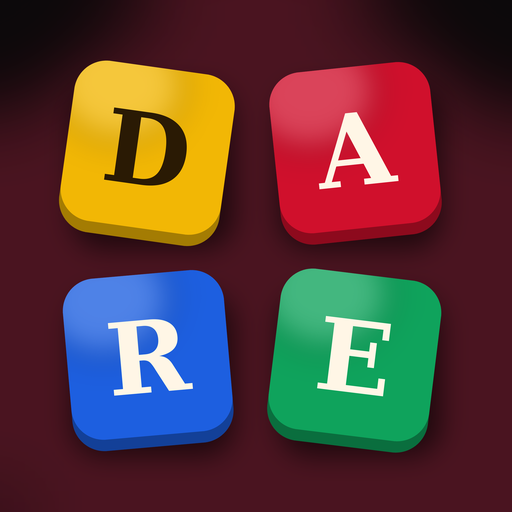
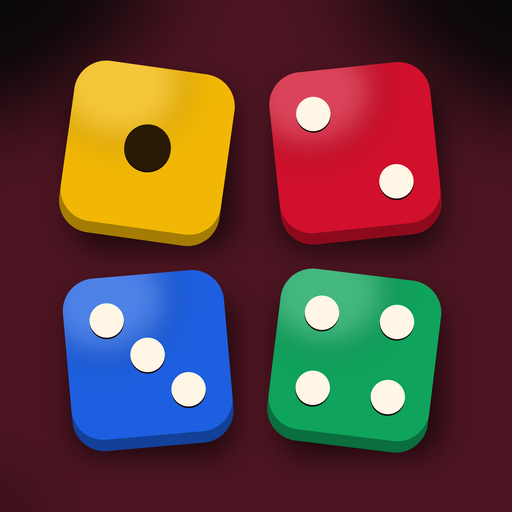
DARE Dice: switch to four standard pip dice
Four 3D dice (gold, red, blue, green) with classic pips; opposite faces
add to 7. Scoring: 1 = 100, 5 = 50, three of a kind = face x 100
(three 1s = 1,000), four of a kind doubles it, straight of four = 500.
Hot dice when all four score. First to 3,000. CPU thresholds retuned.

Claude-Session: https://claude.ai/code/session_01Bgn4CJ6QKYc6QwWea9iu1M

diff --git a/dice/index.html b/dice/index.html
@@ -4,7 +4,7 @@
 <meta charset="UTF-8">
 <meta name="viewport" content="width=device-width, initial-scale=1.0, maximum-scale=1.0, user-scalable=no, viewport-fit=cover">
 <meta name="theme-color" content="#0d0a0c">
-<meta name="description" content="DARE Dice by Dontae Amare. Roll six dice, keep what scores, and bank it before you bust. Spell D-A-R-E for 1,000. Play the computer, a friend on the same phone, or a friend online.">
+<meta name="description" content="DARE Dice by Dontae Amare. Roll four 3D dice, keep what scores, and bank it before you bust. Shake your phone to roll. Play the computer, a friend on the same phone, or a friend online.">
 <meta name="apple-mobile-web-app-capable" content="yes">
 <meta name="apple-mobile-web-app-status-bar-style" content="black-translucent">
 <meta name="apple-mobile-web-app-title" content="DARE Dice">
@@ -200,8 +200,8 @@ input{-webkit-user-select:text;user-select:text}
     <button class="btn ghost" id="resume" hidden>Resume game</button>
   </div>
   <ul class="howto">
-    <li><b>Roll</b>Throw six dice: D, A, R, E, Crown and Star faces.</li>
-    <li><b>Keep</b>Set aside scoring dice. Spell D-A-R-E for 1,000.</li>
+    <li><b>Roll</b>Throw four dice. Shake your phone or tap Roll.</li>
+    <li><b>Keep</b>Set aside scoring dice: 1s, 5s, three of a kind, straights.</li>
     <li><b>Bank</b>Bank your points or roll on. No scoring dice means bust.</li>
   </ul>
   <div class="links"><button class="linkbtn" id="rulesTitle">Scoring and rules</button></div>
@@ -255,7 +255,7 @@ input{-webkit-user-select:text;user-select:text}
     <div class="plate p1" id="pl1"><div class="row"><span class="nm" id="n1">You</span><span class="pd" id="pd1"></span></div><span class="sc" id="sc1">0</span><div class="track"><i id="tr1"></i><b id="tb1"></b></div></div>
     <div class="plate p2" id="pl2"><div class="row"><span class="nm" id="n2">CPU</span><span class="pd" id="pd2"></span></div><span class="sc" id="sc2">0</span><div class="track"><i id="tr2"></i><b id="tb2"></b></div></div>
   </div>
-  <div class="target"><span>0</span><span>First to 4,000</span></div>
+  <div class="target"><span>0</span><span>First to 3,000</span></div>
   <div class="status" id="status" aria-live="polite"></div>
   <div class="table" id="table">
     <div class="turnline"><div class="tp"><span class="label">This turn</span><b id="turnPts">0</b></div><div class="kept" id="kept"></div></div>
@@ -279,8 +279,8 @@ input{-webkit-user-select:text;user-select:text}
       <li>Every roll, keep at least one scoring die, then <b>roll the rest</b> or <b>bank</b> your turn total.</li>
       <li>Kept dice only count when they all score together.</li>
       <li>Roll with nothing that scores and you <b>bust</b>: the turn total is lost.</li>
-      <li>Keep all six dice and you get <b>hot dice</b>: roll all six again.</li>
-      <li>First to <b>4,000</b> wins. If the first player gets there, the other player gets one last turn to beat them.</li>
+      <li>Score with all four dice and you get <b>hot dice</b>: roll all four again.</li>
+      <li>First to <b>3,000</b> wins. If the first player gets there, the other player gets one last turn to beat them.</li>
     </ul>
     <button class="btn big" id="rulesClose">Got it</button>
   </div>
@@ -299,7 +299,7 @@ input{-webkit-user-select:text;user-select:text}
 <script src="/dare-play.js"></script>
 <script>
 (function(){
-const FACES='DARECS', TARGET=4000;
+const FACES='123456', ND=4, TARGET=3000;
 const $=id=>document.getElementById(id);
 const fmt=n=>Number(n).toLocaleString('en-US');
 const sleep=ms=>new Promise(r=>setTimeout(r,ms));
@@ -308,13 +308,13 @@ const esc=s=>String(s).replace(/[&<>"']/g,c=>({'&':'&amp;','<':'&lt;','>':'&gt;'
 const ls={get(k){try{return localStorage.getItem(k)}catch(e){return null}},set(k,v){try{localStorage.setItem(k,v)}catch(e){}}};
 
 /* ---------- faces ---------- */
-const CROWN='<svg viewBox="0 0 32 32" aria-label="Crown"><path d="M4 23 L6.5 10 L12 16 L16 6 L20 16 L25.5 10 L28 23 Z" fill="#c9952b"/><path d="M4 23 L6.5 10 L12 16 L16 6 L20 16 L25.5 10 L28 23 Z" fill="none" stroke="#7a5718" stroke-width="1.4" stroke-linejoin="round"/><rect x="4" y="23" width="24" height="4.5" rx="1.2" fill="#a87a1e"/><circle cx="16" cy="6" r="2" fill="#f6d47e"/><circle cx="6.5" cy="10" r="1.7" fill="#f6d47e"/><circle cx="25.5" cy="10" r="1.7" fill="#f6d47e"/><circle cx="16" cy="25.2" r="1.5" fill="#c0283f"/></svg>';
-const STAR='<svg viewBox="0 0 32 32" aria-label="Star"><path d="M16 3.5 L19.6 12 L28.6 12.6 L21.7 18.5 L23.9 27.4 L16 22.6 L8.1 27.4 L10.3 18.5 L3.4 12.6 L12.4 12 Z" fill="#c0283f" stroke="#7d1426" stroke-width="1.3" stroke-linejoin="round"/><path d="M16 8 L18 13.6 L13.5 13.6 Z" fill="#ee6378" opacity=".7"/></svg>';
-// Six dice, six colors: [body, ink]
-const COLORS=[['#f2b705','#2a1a04'],['#d0102c','#fff6e6'],['#1d5fe0','#fff6e6'],['#0fa35c','#fff6e6'],['#7b3be3','#fff6e6'],['#17151a','#e9b949']];
-const inked=(svg,ink)=>svg.replace(/fill="#[0-9a-f]{6}"/gi,'fill="'+ink+'"').replace(/stroke="#[0-9a-f]{6}"/gi,'stroke="none"').replace(/opacity="\.7"/,'opacity="0"');
-const faceHTML=(f,ink)=>f==='C'?(ink?inked(CROWN,ink):CROWN):f==='S'?(ink?inked(STAR,ink):STAR):f?'<span class="lt">'+f+'</span>':'';
-const miniDie=(f,i)=>{const [c,k]=COLORS[i%6];return '<span class="die" style="--c:'+c+';--k:'+k+'">'+faceHTML(f,k)+'</span>'};
+// Standard pip layouts on a 32-unit face
+const PIPS={1:[[16,16]],2:[[8.5,8.5],[23.5,23.5]],3:[[8.5,8.5],[16,16],[23.5,23.5]],4:[[8.5,8.5],[23.5,8.5],[8.5,23.5],[23.5,23.5]],
+  5:[[8.5,8.5],[23.5,8.5],[16,16],[8.5,23.5],[23.5,23.5]],6:[[8.5,8,],[23.5,8],[8.5,16],[23.5,16],[8.5,24],[23.5,24]]};
+// Four dice, four colors: [body, pips]
+const COLORS=[['#f2b705','#2a1a04'],['#d0102c','#fff6e6'],['#1d5fe0','#fff6e6'],['#0fa35c','#fff6e6']];
+const faceHTML=(f,ink)=>f?'<svg viewBox="0 0 32 32" aria-label="'+f+'">'+PIPS[f].map(([x,y])=>'<circle cx="'+x+'" cy="'+y+'" r="'+(f==='1'?4.6:3.3)+'" fill="'+(ink||'#1d1418')+'"/>').join('')+'</svg>':'';
+const miniDie=(f,i)=>{const [c,k]=COLORS[i%ND];return '<span class="die" style="--c:'+c+';--k:'+k+'">'+faceHTML(f,k)+'</span>'};
 
 /* ---------- scoring ---------- */
 const memo=new Map();
@@ -325,40 +325,40 @@ function bestP(c){
   if(c.every(x=>!x))res={p:0,parts:[]};
   else{
     const t=(cc,add,label)=>{const r=bestP(cc);if(r&&(!res||r.p+add>res.p))res={p:r.p+add,parts:[label,...r.parts]}};
-    if(c[0]&&c[1]&&c[2]&&c[3]){const cc=c.slice();for(let i=0;i<4;i++)cc[i]--;t(cc,1000,'D-A-R-E')}
-    for(let i=0;i<6;i++)for(let n=3;n<=c[i];n++){const cc=c.slice();cc[i]-=n;t(cc,(i===4?1000:i===5?500:300)*(1<<(n-3)),n+' '+(i===4?'Crowns':i===5?'Stars':FACES[i]+'s'))}
-    if(c[4]){const cc=c.slice();cc[4]--;t(cc,100,'Crown')}
-    if(c[5]){const cc=c.slice();cc[5]--;t(cc,50,'Star')}
+    for(let st=0;st<3;st++)if(c[st]&&c[st+1]&&c[st+2]&&c[st+3]){const cc=c.slice();for(let i=st;i<st+4;i++)cc[i]--;t(cc,500,'Straight')}
+    for(let i=0;i<6;i++)for(let n=3;n<=c[i];n++){const cc=c.slice();cc[i]-=n;t(cc,(i===0?1000:(i+1)*100)*(1<<(n-3)),(n===3?'Three ':'Four ')+(i+1)+'s')}
+    if(c[0]){const cc=c.slice();cc[0]--;t(cc,100,'One')}
+    if(c[4]){const cc=c.slice();cc[4]--;t(cc,50,'Five')}
   }
   memo.set(key,res);return res;
 }
 const counts=fs=>{const c=[0,0,0,0,0,0];for(const f of fs)c[FACES.indexOf(f)]++;return c};
 function tidy(parts){
   const m=new Map();for(const p of parts)m.set(p,(m.get(p)||0)+1);
-  return [...m].map(([p,n])=>n===1?p:(p==='Crown'||p==='Star')?n+' '+p+'s':n+' × '+p).join(' + ');
+  return [...m].map(([p,n])=>n===1?p:(p==='One'||p==='Five')?n+' '+p+'s':n+' × '+p).join(' + ');
 }
 function score(fs){if(!fs.length)return null;const r=bestP(counts(fs));if(!r||r.p<=0)return null;return{p:r.p,label:tidy(r.parts)}}
 function canScore(fs){
-  if(fs.some(f=>f==='C'||f==='S'))return true;
-  const c=counts(fs);return (c[0]&&c[1]&&c[2]&&c[3])||c.some(x=>x>=3);
+  if(fs.some(f=>f==='1'||f==='5'))return true;
+  const c=counts(fs);return c.some(x=>x>=3)||[0,1,2].some(st=>c[st]&&c[st+1]&&c[st+2]&&c[st+3]);
 }
 // scoring table for the rules sheet
 $('stable').innerHTML=[
-  [['C'],'Crown','100 each'],[['S'],'Star','50 each'],
-  [['D','A','R','E'],'D-A-R-E, one of each','1,000'],
-  [['R','R','R'],'Three of a letter','300'],[['S','S','S'],'Three Stars','500'],[['C','C','C'],'Three Crowns','1,000'],
-  [['A','A','A','A'],'Each extra matching die','× 2']
+  [['1'],'One','100 each'],[['5'],'Five','50 each'],
+  [['2','3','4','5'],'Straight, four in a row','500'],
+  [['4','4','4'],'Three of a kind','Face × 100'],[['1','1','1'],'Three Ones','1,000'],
+  [['6','6','6','6'],'Four of a kind','Double it'],
 ].map(([fs,lab,pts],r)=>`<tr><td><span class="mini">${fs.map((f,j)=>miniDie(f,r+j)).join('')}</span>${lab}</td><td>${pts}</td></tr>`).join('');
-// title cubes: D, A, R, E on four different dice
-$('cubes').innerHTML='DARE'.split('').map((L,i)=>{const [c,k]=COLORS[[0,1,2,3][i]];const sides=[L,'C','S',...'DARE'.replace(L,'').slice(0,3)];
-  return `<div class="cubewrap"><div class="cube" style="--c:${c};--k:${k};--d:-${i*1.2}s">${sides.map(f=>'<i>'+faceHTML(f,k)+'</i>').join('')}</div></div>`}).join('');
+// title cubes: four dice showing a 1-2-3-4 straight
+$('cubes').innerHTML=['1','2','3','4'].map((f,i)=>{const [c,k]=COLORS[i];const opp={1:'6',2:'5',3:'4',4:'3'}[f];const sides=[f,...'123456'.replace(f,'').replace(opp,'').split(''),opp];
+  return `<div class="cubewrap"><div class="cube" style="--c:${c};--k:${k};--d:-${i*1.2}s">${sides.map(x=>'<i>'+faceHTML(x,k)+'</i>').join('')}</div></div>`}).join('');
 
 /* ---------- state ---------- */
 let S=null, menuMode='cpu', screen='title';
 function loadScores(){try{const s=JSON.parse(ls.get('dd-scores'));if(s&&s.cpu&&s['2p']&&s.online)return s}catch(e){}return{cpu:{1:0,2:0,d:0},'2p':{1:0,2:0,d:0},online:{w:0,l:0,d:0}}}
 const allScores=loadScores();
 const saveScores=()=>ls.set('dd-scores',JSON.stringify(allScores));
-const six=v=>Array(6).fill(v);
+const six=v=>Array(ND).fill(v); // one entry per die
 function fresh(mode,starter){
   return {mode,me:1,starter,turn:starter,sc:{1:0,2:0},faces:six(null),live:six(true),lastLive:null,sel:six(false),
     turnPts:0,kept:[],phase:'start',log:[],final:false,over:false,winner:0,flash:null,end:'',tallied:false};
@@ -369,13 +369,13 @@ function apply(t){
   S.log.push(t);
   const k=t[0];
   if(k==='r'){
-    let j=0;for(let i=0;i<6;i++)if(S.live[i])S.faces[i]=t[1+j++]||'D';
+    let j=0;for(let i=0;i<ND;i++)if(S.live[i])S.faces[i]=t[1+j++]||'1';
     S.sel=six(false);S.flash=null;S.lastLive=null;
     const lf=S.faces.filter((_,i)=>S.live[i]);
     if(!canScore(lf)){S.flash={type:'bust',who:S.turn,pts:S.turnPts};endTurn(false)}
     else S.phase='pick';
   }else if(k==='k'){
-    const idx=[...t.slice(1)].map(Number).filter(i=>i>=0&&i<6&&S.live[i]);
+    const idx=[...t.slice(1)].map(Number).filter(i=>i>=0&&i<ND&&S.live[i]);
     const fs=idx.map(i=>S.faces[i]),r=score(fs);
     if(!r)return;
     S.turnPts+=r.p;S.kept.push({fs,idx,label:r.label,p:r.p});
@@ -416,31 +416,30 @@ function myTurn(){
 }
 
 /* ---------- 3D table (three.js) ---------- */
-const NORM=[[1,0,0],[-1,0,0],[0,1,0],[0,-1,0],[0,0,1],[0,0,-1]]; // box material slots; slot k shows FACES[k]
+const NORM=[[1,0,0],[-1,0,0],[0,1,0],[0,-1,0],[0,0,1],[0,0,-1]]; // box material slots
+const SLOTFACE='162534'; // slot k shows this face; opposite faces add up to 7 like real dice
 const UPV=[[0,1,0],[0,1,0],[0,0,-1],[0,0,1],[0,1,0],[0,-1,0]];   // texture "up" on each slot (-z is drawn upside down so the face nearest you reads upright)
-const SPOTS=[[-1.75,-0.35],[0,-0.35],[1.75,-0.35],[-1.75,1.45],[0,1.45],[1.75,1.45]];
+const SPOTS=[[-1.2,-0.15],[1.2,-0.15],[-1.2,1.6],[1.2,1.6]];
 const RAILZ=-2.25;
 let R3=null;
 function faceTex(i,f){
   const cv=document.createElement('canvas');cv.width=cv.height=256;
   const draw=()=>{
     const g=cv.getContext('2d'),[c,k]=COLORS[i];
-    g.setTransform(1,0,0,1,0,0);if(f==='S'){g.translate(256,256);g.rotate(Math.PI)}
+    g.setTransform(1,0,0,1,0,0);
     g.fillStyle=c;g.fillRect(0,0,256,256);
     const gr=g.createRadialGradient(90,80,10,128,128,200);gr.addColorStop(0,'rgba(255,255,255,.22)');gr.addColorStop(1,'rgba(0,0,0,.18)');
     g.fillStyle=gr;g.fillRect(0,0,256,256);
-    g.fillStyle=k;
-    if(f==='C'||f==='S'){
-      g.save();g.translate(40,40);g.scale(176/32,176/32);
-      if(f==='C'){g.fill(new Path2D('M4 23 L6.5 10 L12 16 L16 6 L20 16 L25.5 10 L28 23 Z'));g.fillRect(4,23.8,24,4.2);
-        g.beginPath();g.arc(16,5.4,2.1,0,7);g.arc(6.5,9.6,1.8,0,7);g.fill();g.beginPath();g.arc(25.5,9.6,1.8,0,7);g.fill()}
-      else g.fill(new Path2D('M16 3.5 L19.6 12 L28.6 12.6 L21.7 18.5 L23.9 27.4 L16 22.6 L8.1 27.4 L10.3 18.5 L3.4 12.6 L12.4 12 Z'));
-      g.restore();
-    }else{g.font='170px "Alfa Slab One", Rockwell, Georgia, serif';g.textAlign='center';g.textBaseline='middle';g.fillText(f,128,140)}
+    const S8=256/32;
+    for(const [x,y] of PIPS[f]){
+      const r=(f==='1'?4.6:3.3)*S8,cx=x*S8,cy=y*S8;
+      g.beginPath();g.arc(cx,cy+2,r,0,7);g.fillStyle='rgba(0,0,0,.28)';g.fill();      // drilled shadow
+      g.beginPath();g.arc(cx,cy,r,0,7);g.fillStyle=k;g.fill();
+      g.beginPath();g.arc(cx-r*.3,cy-r*.3,r*.35,0,7);g.fillStyle='rgba(255,255,255,.18)';g.fill();
+    }
   };
   draw();
   const t=new THREE.CanvasTexture(cv);t.encoding=THREE.sRGBEncoding;t.anisotropy=4;
-  if(document.fonts&&document.fonts.load)document.fonts.load('170px "Alfa Slab One"').then(()=>{draw();t.needsUpdate=true}).catch(()=>{});
   return t;
 }
 function roundedBox(r=.15,seg=7){
@@ -454,7 +453,7 @@ function roundedBox(r=.15,seg=7){
 }
 const _y=()=>new THREE.Vector3(0,1,0);
 function faceQuat(f,yaw){
-  const k=FACES.indexOf(f),N=new THREE.Vector3(...NORM[k]),U=new THREE.Vector3(...UPV[k]),W=new THREE.Vector3().crossVectors(N,U);
+  const k=SLOTFACE.indexOf(f),N=new THREE.Vector3(...NORM[k]),U=new THREE.Vector3(...UPV[k]),W=new THREE.Vector3().crossVectors(N,U);
   const mL=new THREE.Matrix4().makeBasis(N,U,W),mW=new THREE.Matrix4().makeBasis(_y(),new THREE.Vector3(0,0,-1),new THREE.Vector3(-1,0,0));
   const q=new THREE.Quaternion().setFromRotationMatrix(mW.multiply(mL.transpose()));
   return new THREE.Quaternion().setFromAxisAngle(_y(),yaw||0).multiply(q);
@@ -477,10 +476,10 @@ function init3D(){
   const rim=new THREE.DirectionalLight(0xffd9a0,.35);rim.position.set(-6,4,-6);scene.add(rim);
   const floor=new THREE.Mesh(new THREE.PlaneGeometry(40,40),new THREE.ShadowMaterial({opacity:.5}));
   floor.rotation.x=-Math.PI/2;floor.receiveShadow=true;scene.add(floor);
-  const geo=roundedBox(), ringGeo=new THREE.RingGeometry(.78,.9,48);
+  const geo=roundedBox(), ringGeo=new THREE.RingGeometry(.86,.98,48);
   const dice=[];
-  for(let i=0;i<6;i++){
-    const mats=FACES.split('').map(f=>new THREE.MeshStandardMaterial({map:faceTex(i,f),roughness:.3,metalness:.05}));
+  for(let i=0;i<ND;i++){
+    const mats=SLOTFACE.split('').map(f=>new THREE.MeshStandardMaterial({map:faceTex(i,f),roughness:.3,metalness:.05}));
     const mesh=new THREE.Mesh(geo,mats);mesh.castShadow=true;mesh.userData.i=i;
     const [x,z]=SPOTS[i];mesh.position.set(x,.5,z);mesh.quaternion.copy(faceQuat(FACES[i],0));
     scene.add(mesh);
@@ -508,7 +507,7 @@ function fit3D(){
   const r=$('table').getBoundingClientRect();if(!r.width||!r.height)return;
   R3.renderer.setSize(r.width,r.height,false);
   const cam=R3.camera;cam.aspect=r.width/r.height;
-  const k=Math.max(.92,0.66/cam.aspect);
+  const k=Math.max(.9,0.62/cam.aspect);
   cam.position.set(0,10.4*k,7.4*k+.3);cam.lookAt(0,0,0.3);cam.updateProjectionMatrix();
 }
 function frame(){
@@ -537,7 +536,7 @@ function sync3D(){
   if(!R3||!S)return;
   const idle=!S.faces.some(Boolean),resting=S.phase==='start'||S.over;
   const rail=S.kept.flatMap(k=>k.idx||[]);
-  for(let i=0;i<6;i++){
+  for(let i=0;i<ND;i++){
     const d=R3.dice[i];
     const f=S.faces[i]||FACES[i];
     let x,y=.5,z,yaw=0,sc=1;
@@ -552,12 +551,12 @@ function sync3D(){
 }
 function rollAnim(t){
   if(!R3)return sleep(250);
-  const live=[];for(let i=0;i<6;i++)if(S.live[i])live.push(i);
+  const live=[];for(let i=0;i<ND;i++)if(S.live[i])live.push(i);
   const spots=SPOTS.map(s=>s.slice()).sort(()=>Math.random()-.5);
   let longest=0;const now=performance.now();
   live.forEach((i,j)=>{
     const d=R3.dice[i],[sx,sz]=spots[j],f=t[1+j];
-    const x=sx+(Math.random()-.5)*.55,z=sz+(Math.random()-.5)*.45,yaw=(Math.random()-.5)*1.1;
+    const x=sx+(Math.random()-.5)*.4,z=sz+(Math.random()-.5)*.35,yaw=(Math.random()-.5)*1.1;
     d.home={x,z,yaw};
     const dur=1050+Math.random()*350,delay=Math.random()*120;longest=Math.max(longest,dur+delay);
     d.mesh.scale.setScalar(1);
@@ -598,7 +597,7 @@ $('shakeBtn').onclick=()=>{
 };
 renderShake();
 
-const selIdx=()=>{const a=[];for(let i=0;i<6;i++)if(S.sel[i])a.push(i);return a};
+const selIdx=()=>{const a=[];for(let i=0;i<ND;i++)if(S.sel[i])a.push(i);return a};
 function toggle(i){
   if(!S||S.phase!=='pick'||!S.live[i]||!myTurn()||busy())return;
   S.sel[i]=!S.sel[i];render();
@@ -637,11 +636,11 @@ function render(){
   const roll=$('roll'),bank=$('bank'),locked=Date.now()<lockUntil;
   if(!S.over){
     if(!myTurn()){roll.disabled=true;bank.disabled=true;roll.textContent=S.mode==='cpu'?'CPU’s turn':'Their turn';bank.textContent='Bank'}
-    else if(S.phase==='start'){roll.disabled=busy()||locked||(online()&&(!NET.oppOnline||!NET.connected));roll.textContent='Roll 6 dice';bank.disabled=true;bank.textContent='Bank'}
+    else if(S.phase==='start'){roll.disabled=busy()||locked||(online()&&(!NET.oppOnline||!NET.connected));roll.textContent='Roll 4 dice';bank.disabled=true;bank.textContent='Bank'}
     else if(S.phase==='pick'){
       const live=S.live.filter(Boolean).length, n=sel?live-selIdx().length:0;
       roll.disabled=!sel||busy();bank.disabled=!sel||busy();
-      roll.textContent=sel?(n===0?'Roll 6 · hot dice':'Roll '+n+(n===1?' die':' dice')):'Roll';
+      roll.textContent=sel?(n===0?'Roll 4 · hot dice':'Roll '+n+(n===1?' die':' dice')):'Roll';
       bank.textContent=sel?'Bank '+fmt(S.turnPts+sel.p):'Bank';
     }else{roll.disabled=true;bank.disabled=true}
   }else updateRematch();
@@ -671,7 +670,7 @@ function renderStatus(){
     st.textContent=(isYou(f.who)?'You banked ':name(f.who)+' banked ')+fmt(f.pts)+'.'+(f.final?' '+(isYou(other(f.who))?'Your':name(other(f.who))+'’s')+' last turn: beat '+fmt(S.sc[f.who])+'.':'');
     return;
   }
-  if(f&&f.type==='hot'){st.classList.add('bank');st.textContent='Hot dice! All six roll again.';return}
+  if(f&&f.type==='hot'){st.classList.add('bank');st.textContent='Hot dice! All four roll again.';return}
   const who=S.turn, you=isYou(who)||S.mode==='2p';
   const lead=S.final?' · beat '+fmt(S.sc[3-who]):'';
   if(S.mode==='2p')st.textContent=name(who)+(S.phase==='start'?' to roll':' · pick dice')+lead;
@@ -724,8 +723,8 @@ function tallyEnd(){
 
 /* ---------- computer ---------- */
 let cpuT=null;
-const FUT=[0,30,60,100,170,260,420];         // rough value of rolling n dice on
-const BANK_AT=[0,250,300,400,700,2000,3000]; // bank once the turn is worth this, by dice left to roll
+const FUT=[0,30,60,110,190];          // rough value of rolling n dice on (4 = hot dice)
+const BANK_AT=[0,250,300,450,1200];   // bank once the turn is worth this, by dice left to roll
 function maybeCpu(){
   if(!S||S.mode!=='cpu'||S.over||S.turn!==2||pumping||cpuT||screen!=='game')return;
   const delay=Math.max(0,lockUntil-Date.now())+(S.phase==='start'?650:450);
@@ -735,19 +734,19 @@ function cpuStep(){
   if(S.mode!=='cpu'||S.over||S.turn!==2||pumping||screen!=='game')return;
   if(S.phase==='start'){enqueue(['R'],true,false);return}
   if(S.phase!=='pick')return;
-  const li=[];for(let i=0;i<6;i++)if(S.live[i])li.push(i);
+  const li=[];for(let i=0;i<ND;i++)if(S.live[i])li.push(i);
   let best=null;
   for(let m=1;m<1<<li.length;m++){
     const idx=li.filter((_,j)=>m>>j&1), r=score(idx.map(i=>S.faces[i]));
     if(!r)continue;
-    const rem=li.length-idx.length||6, v=r.p+FUT[rem];
+    const rem=li.length-idx.length||ND, v=r.p+FUT[rem];
     if(!best||v>best.v)best={idx,p:r.p,rem,v};
   }
   const turn=S.turnPts+best.p, me=S.sc[2], opp=S.sc[1];
   let bank;
   if(S.final)bank=me+turn>opp;
   else if(me+turn>=TARGET)bank=true;
-  else{let th=BANK_AT[best.rem];if(opp>=TARGET-900&&opp-me>500)th*=1.6;bank=turn>=th}
+  else{let th=BANK_AT[best.rem];if(opp>=TARGET-700&&opp-me>400)th*=1.6;bank=turn>=th}
   enqueue(['k'+best.idx.join(''),bank?'b':'R'],true,false);
 }
 

diff --git a/index.html b/index.html
@@ -288,7 +288,7 @@ html.standalone .fs-link,html.standalone .tip{display:none}
       <a class="row live" href="/dice/">
         <h3>DARE Dice</h3>
         <span class="status">Play</span>
-        <p>Six 3D dice, six colors. Roll, keep what scores, and bank it before you bust. Spell D-A-R-E for 1,000. Shake your phone to roll. Play the computer, a friend on the same phone, or a friend online.</p>
+        <p>Four 3D dice in four colors. Roll, keep your 1s, 5s, sets and straights, and bank it before you bust. Shake your phone to roll. Play the computer, a friend on the same phone, or a friend online.</p>
         <span class="price">Free to play</span>
       </a>
       <a class="row live" href="/dead-rise/">

diff --git a/README.md b/README.md
@@ -56,8 +56,8 @@ Every push to `main` redeploys automatically.
 - The same `connect/index.html` also works as a Claude artifact, with Vs CPU and 2 Player only.
 
 ## DARE Dice
-- Push-your-luck dice: six 3D dice (D, A, R, E, Crown, Star faces), each a different color. Keep scoring dice, then roll the rest or bank. A roll with nothing that scores is a bust. First to 4,000; if the first player gets there, the other gets one last turn.
-- Scoring: Crown 100, Star 50, D-A-R-E 1,000, three of a letter 300, three Stars 500, three Crowns 1,000, and each extra matching die doubles a set.
+- Push-your-luck dice with four standard 3D dice (three.js r128), each a different color. Keep scoring dice, then roll the rest or bank. A roll with nothing that scores is a bust. Score with all four and you roll all four again (hot dice). First to 3,000; if the first player gets there, the other gets one last turn.
+- Scoring: 1 = 100, 5 = 50, three of a kind = face × 100 (three 1s = 1,000), four of a kind doubles that, a straight of four (1-2-3-4, 2-3-4-5, 3-4-5-6) = 500.
 - Shake to roll: phones roll the dice when shaken (device motion). iPhones ask for motion access the first time a player taps Play or Roll. Players can turn it off with the Shake button.
 - Online uses the same `/api/room` (rooms are named `dd-<code>`). Each game is a list of tokens: `r<faces>` for a roll, `k<dice>` for a keep, `b` for a bank. Only the player whose turn it is rolls, and each phone sends the whole list with every poll, so a missed poll never loses a roll.
 - Modes: Vs CPU, 2 Player (one phone) and Online (two phones with a 4-character match code). The host rolls first; first roll swaps on every rematch.
